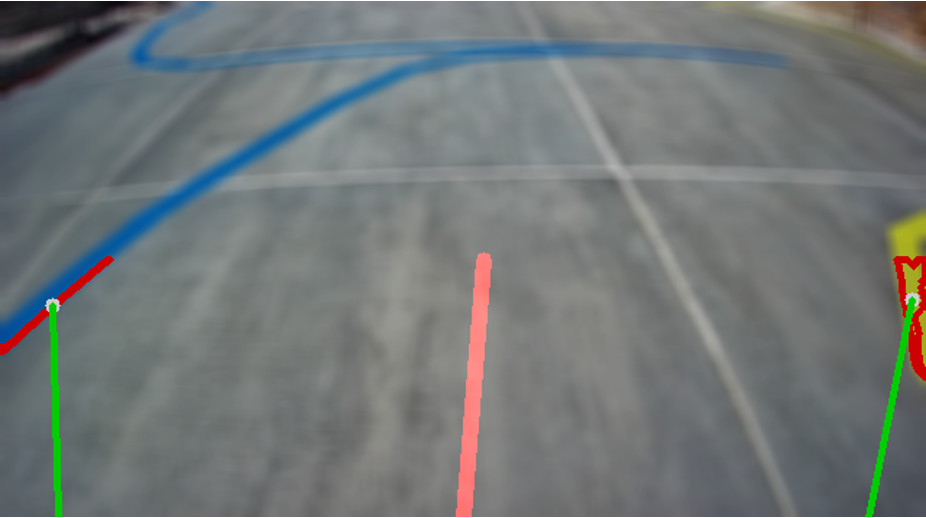
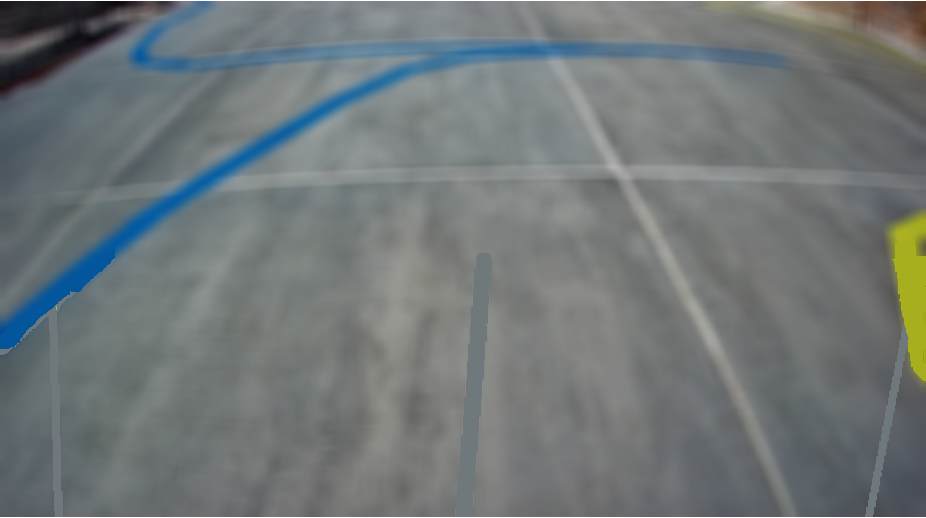
testing a bunch of stuff like voronoi

Changed region(s): [[0.0, 0.4942, 0.121, 1.0], [0.4838, 0.4942, 0.5443, 1.0], [0.9374, 0.4942, 1.0, 1.0]]

diff --git a/test.py b/test.py
@@ -1,4 +1,6 @@
 import cv2 as cv
+import numpy as np
+import time
 
 window_title = "Frame"
 
@@ -41,6 +43,24 @@ def rtext(img, text, org):
     )
 
 
+blueLow = (100, 200, 0)
+blueHigh = (200, 255, 255)
+yellowLow = (0, 200, 0)
+yellowHigh = (80, 255, 190)
+
+# BGR edge fills so Voronoi always has a boundary
+blueFill = (160, 90, 6)
+yellowFill = (30, 170, 170)
+
+img = np.zeros((1024, 1024), np.uint8)
+
+# Fill it with some white pixels
+img[10, 10] = 255
+img[20, 1000] = 255
+img[:, 800:] = 255
+
+morphKernel = cv.getStructuringElement(cv.MORPH_ELLIPSE, (5, 5))
+
 cap = cv.VideoCapture(0)
 if not cap.isOpened():
     print("Cannot open camera")
@@ -49,23 +69,52 @@ if not cap.isOpened():
 while True:
     k = cv.waitKey(1)
 
+    if k == ord("1"):
+        currentlyShowing = -1
+    if k == ord("2"):
+        currentlyShowing = -2
+    if k == ord("3"):
+        currentlyShowing = -3
+    if k == ord("4"):
+        currentlyShowing = -4
+    if k == ord("5"):
+        currentlyShowing = -5
+    if k == ord("6"):
+        currentlyShowing = -6
+    if k == ord("7"):
+        currentlyShowing = -7
+    if k == ord("8"):
+        currentlyShowing = -8
+    if k == ord("9"):
+        currentlyShowing = -9
+    if k == ord("0"):
+        currentlyShowing = -10
     if k == ord("g"):
         currentlyShowing = 0
-    if k == ord("h"):
+    if k == ord("H"):
         currentlyShowing = 1
     if k == ord("s"):
         currentlyShowing = 2
     if k == ord("v"):
         currentlyShowing = 3
-    if k == ord("H"):
+    if k == ord("h"):
         currentlyShowing = 4
 
-    # imgRaw = cv.imread("test.png")
-    ret, rawImg = cap.read()
-    if ret == False:
-        break
+    start_time = time.time()
+    ret = True
+    inputImg = cv.imread("test2.png")
 
-    hsvImg = cv.cvtColor(rawImg, cv.COLOR_BGR2HSV_FULL)
+    # inputImg = cv.cvtColor(img, cv.COLOR_GRAY2BGR)
+    # ret, inputImg = cap.read()
+    # if ret == False:
+    # break
+
+    height, width, channels = inputImg.shape
+    inputImg[:, 0:5] = blueFill
+    inputImg[:, width - 5 : width] = yellowFill
+    # inputImg = cv.flip(inputImg, 1)  # TODO REMOVE ON FINAL
+
+    hsvImg = cv.cvtColor(inputImg, cv.COLOR_BGR2HSV_FULL)
     hsvHueOnly = hsvImg.copy()
     hsvHueOnly[:, :, 1] = 255
     hsvHueOnly[:, :, 2] = 255
@@ -74,24 +123,100 @@ while True:
     hsvValOnly = cv.cvtColor(hsvImg[:, :, 2], cv.COLOR_GRAY2BGR)
 
     # pixel is in BGR!
-    rgbPixel = rawImg[mouseY, mouseX]
+    rgbPixel = inputImg[mouseY, mouseX]
     hsvPixel = hsvImg[mouseY, mouseX]
 
-    showFrame = rawImg
-    txt = "RGB"
-    if currentlyShowing == 1:
-        showFrame = hsvHueOnly
-        txt = "Hue"
-    elif currentlyShowing == 2:
-        showFrame = hsvSatOnly
-        txt = "Sat"
-    elif currentlyShowing == 3:
-        showFrame = hsvValOnly
-        txt = "Val"
-    elif currentlyShowing == 4:
-        showFrame = hsvImg
-        txt = "HSV"
-    showFrame = cv.flip(showFrame, 1)
+    blueThresh = cv.inRange(hsvImg, blueLow, blueHigh)
+    blueThresh = cv.morphologyEx(blueThresh, cv.MORPH_OPEN, morphKernel)
+    yellowThresh = cv.inRange(hsvImg, yellowLow, yellowHigh)
+    yellowThresh = cv.morphologyEx(yellowThresh, cv.MORPH_OPEN, morphKernel)
+    combinedThresh = cv.bitwise_xor(yellowThresh, blueThresh)
+    end_time = time.time()
+
+    blueDist = cv.normalize(
+        cv.distanceTransform(cv.bitwise_not(blueThresh), cv.DIST_L2, 5),
+        None,
+        0,
+        255,
+        cv.NORM_MINMAX,
+        cv.CV_8UC1,
+    )
+    yellowDist = cv.normalize(
+        cv.distanceTransform(cv.bitwise_not(yellowThresh), cv.DIST_L2, 5),
+        None,
+        0,
+        255,
+        cv.NORM_MINMAX,
+        cv.CV_8UC1,
+    )
+    combinedDist = cv.normalize(
+        cv.distanceTransform(cv.bitwise_not(combinedThresh), cv.DIST_L2, 5),
+        None,
+        0,
+        255,
+        cv.NORM_MINMAX,
+        cv.CV_8UC1,
+    )
+
+    diff = cv.absdiff(blueDist, yellowDist)
+    ret, potPath = cv.threshold(diff, 1, 255, cv.THRESH_BINARY_INV)
+    sobel = cv.normalize(
+        cv.Sobel(combinedDist, cv.CV_64F, 1, 0, ksize=5),
+        None,
+        0,
+        255,
+        cv.NORM_MINMAX,
+        cv.CV_8UC1,
+    )
+
+    match currentlyShowing:
+        case -1:
+            txt = "BLU"
+            showFrame = cv.cvtColor(blueThresh, cv.COLOR_GRAY2BGR)
+        case -2:
+            txt = "YLW"
+            showFrame = cv.cvtColor(yellowThresh, cv.COLOR_GRAY2BGR)
+        case -3:
+            txt = "BDST"
+            showFrame = cv.cvtColor(blueDist, cv.COLOR_GRAY2BGR)
+        case -4:
+            txt = "YDST"
+            showFrame = cv.cvtColor(yellowDist, cv.COLOR_GRAY2BGR)
+        case -5:
+            txt = "ADIF"
+            showFrame = cv.cvtColor(diff, cv.COLOR_GRAY2BGR)
+        case -6:
+            txt = "THR"
+            showFrame = cv.cvtColor(potPath, cv.COLOR_GRAY2BGR)
+        case -7:
+            txt = "CMB"
+            showFrame = cv.cvtColor(combinedThresh, cv.COLOR_GRAY2BGR)
+        case -8:
+            txt = "CDST"
+            showFrame = cv.cvtColor(combinedDist, cv.COLOR_GRAY2BGR)
+        case -9:
+            txt = "HSBL"
+            showFrame = cv.cvtColor(sobel, cv.COLOR_GRAY2BGR)
+        case 0:
+            txt = "RGB"
+            showFrame = inputImg
+        case 1:
+            txt = "Hue"
+            showFrame = hsvHueOnly
+        case 2:
+            txt = "Sat"
+            showFrame = hsvSatOnly
+        case 3:
+            txt = "Val"
+            showFrame = hsvValOnly
+        case 4:
+            txt = "HSV"
+            showFrame = hsvImg
+        case _:
+            txt = "Dflt"
+            showFrame = inputImg
+
+    samplePixel = showFrame[mouseY, mouseX]
     rtext(showFrame, txt, (5, 30))
     rtext(
         showFrame,
@@ -108,6 +233,16 @@ while True:
         f"H{hsvPixel[0]:03d} S{hsvPixel[1]:03d} V{hsvPixel[2]:03d}",
         (5, 120),
     )
+    rtext(
+        showFrame,
+        f"R{samplePixel[2]:03d} G{samplePixel[1]:03d} B{samplePixel[0]:03d}",
+        (5, 210),
+    )
+    dt = end_time - start_time
+    time_ms = dt * 1000
+    fps = 1 / dt
+    rtext(showFrame, f"T:{time_ms:03.0f}ms FPS:{fps:03.0f}", (5, 150))
+    rtext(showFrame, f"W:{width} H:{height}", (5, 180))
     cv.imshow(window_title, showFrame)
 
     if k == ord(" ") or k == ord("q"):
